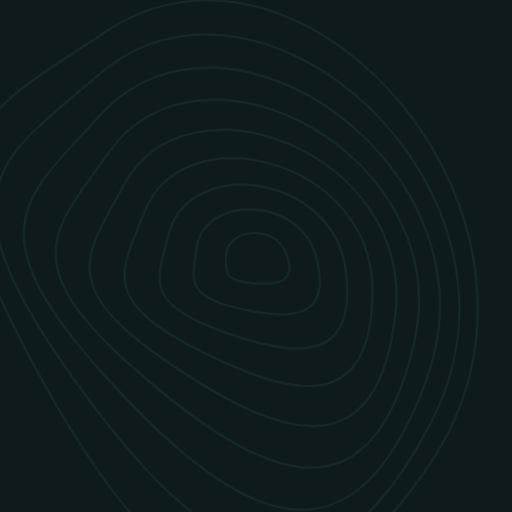
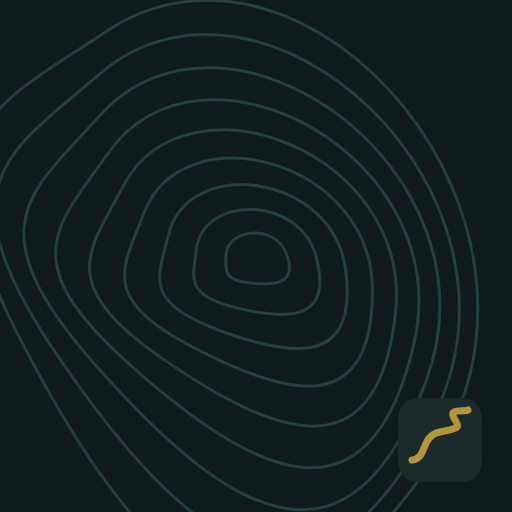
Android Auto: carátulas más visibles con el símbolo de la app, dato resumido y sin botón duplicado; web v56
Claude-Session: https://claude.ai/code/session_01FRQcJjMTDkdSzsSxRQTBPf

diff --git a/index.html b/index.html
@@ -12,7 +12,7 @@
 <link rel="preconnect" href="https://fonts.googleapis.com">
 <link rel="preconnect" href="https://fonts.gstatic.com" crossorigin>
 <link rel="stylesheet" href="https://fonts.googleapis.com/css2?family=Barlow+Condensed:wght@600;700&family=Barlow:wght@400;500;600&display=swap">
-<link rel="stylesheet" href="style.css?v=55">
+<link rel="stylesheet" href="style.css?v=56">
 </head>
 <body>
 <header class="top">
@@ -272,7 +272,7 @@
       </div>
     </div>
 
-    <p class="note">Versión 55. Los datos están guardados en la propia aplicación, así que funciona sin cobertura una vez instalada. Las fechas y cifras proceden de fuentes generales; si vas a citar alguna, compruébala antes.</p>
+    <p class="note">Versión 56. Los datos están guardados en la propia aplicación, así que funciona sin cobertura una vez instalada. Las fechas y cifras proceden de fuentes generales; si vas a citar alguna, compruébala antes.</p>
   </section>
 </main>
 
@@ -298,22 +298,22 @@
 <div id="toast" role="status" aria-live="polite" hidden></div>
 <div id="dimmer" hidden></div>
 
-<script src="data-asturias.js?v=55"></script>
-<script src="data-cantabria.js?v=55"></script>
-<script src="data-dias.js?v=55"></script>
-<script src="core.js?v=55"></script>
-<script src="engine.js?v=55"></script>
-<script src="ui.js?v=55"></script>
-<script src="radio.js?v=55"></script>
-<script src="explore.js?v=55"></script>
-<script src="home.js?v=55"></script>
-<script src="update.js?v=55"></script>
-<script src="edits.js?v=55"></script>
-<script src="summary.js?v=55"></script>
-<script src="bt.js?v=55"></script>
-<script src="auto.js?v=55"></script>
-<script src="routemap.js?v=55"></script>
-<script src="drive.js?v=55"></script>
-<script src="guide.js?v=55"></script>
+<script src="data-asturias.js?v=56"></script>
+<script src="data-cantabria.js?v=56"></script>
+<script src="data-dias.js?v=56"></script>
+<script src="core.js?v=56"></script>
+<script src="engine.js?v=56"></script>
+<script src="ui.js?v=56"></script>
+<script src="radio.js?v=56"></script>
+<script src="explore.js?v=56"></script>
+<script src="home.js?v=56"></script>
+<script src="update.js?v=56"></script>
+<script src="edits.js?v=56"></script>
+<script src="summary.js?v=56"></script>
+<script src="bt.js?v=56"></script>
+<script src="auto.js?v=56"></script>
+<script src="routemap.js?v=56"></script>
+<script src="drive.js?v=56"></script>
+<script src="guide.js?v=56"></script>
 </body>
 </html>

diff --git a/sw.js b/sw.js
@@ -1,8 +1,8 @@
 /* Service worker: guarda la app para que abra sin cobertura. */
-var CACHE = "ruta-historia-v55";
+var CACHE = "ruta-historia-v56";
 var ARCHIVOS = [
-  "./", "./index.html", "./style.css?v=55", "./engine.js?v=55", "./ui.js?v=55", "./drive.js?v=55", "./radio.js?v=55", "./explore.js?v=55", "./home.js?v=55", "./update.js?v=55", "./edits.js?v=55", "./summary.js?v=55", "./bt.js?v=55", "./fondos/costa.png", "./fondos/montanas.png", "./fondos/mapa.png", "./fondos/camino.png", "./fondos/arcos.png", "./auto.js?v=55", "./routemap.js?v=55", "./guide.js?v=55", "./vendor/leaflet/leaflet.js", "./vendor/leaflet/leaflet.css", "./core.js?v=55",
-  "./data-asturias.js?v=55", "./data-cantabria.js?v=55", "./data-dias.js?v=55",
+  "./", "./index.html", "./style.css?v=56", "./engine.js?v=56", "./ui.js?v=56", "./drive.js?v=56", "./radio.js?v=56", "./explore.js?v=56", "./home.js?v=56", "./update.js?v=56", "./edits.js?v=56", "./summary.js?v=56", "./bt.js?v=56", "./fondos/costa.png", "./fondos/montanas.png", "./fondos/mapa.png", "./fondos/camino.png", "./fondos/arcos.png", "./auto.js?v=56", "./routemap.js?v=56", "./guide.js?v=56", "./vendor/leaflet/leaflet.js", "./vendor/leaflet/leaflet.css", "./core.js?v=56",
+  "./data-asturias.js?v=56", "./data-cantabria.js?v=56", "./data-dias.js?v=56",
   "./manifest.webmanifest", "./icon-192.png", "./icon-512.png", "./icon-maskable-512.png"
 ];
 

diff --git a/auto.js b/auto.js
@@ -9,7 +9,12 @@
   /* La sesión de medios solo se activa mientras suena la radio de la app: así los datos hablados no se llevan el control de medios del coche. */
   var radioPlaying = false;
   function push() { P.update({ title: cur.title, text: cur.text, active: radioPlaying }).catch(function () { }); }
-  A.on("fact", function (e) { cur = { title: e.p.n, text: e.f.text }; push(); });
+  /* En la pantalla del coche el texto es corto: solo la primera frase, con un máximo de unos 90 caracteres. */
+  function short(t) {
+    var s = String(t || "").replace(/\s+/g, " ").trim(), m = /^(.+?[.!?])(\s|$)/.exec(s), f = m ? m[1] : s;
+    return f.length > 90 ? f.slice(0, 88).replace(/\s+\S*$/, "") + "…" : f;
+  }
+  A.on("fact", function (e) { cur = { title: e.p.n, text: short(e.f.text) }; push(); });
   A.on("trip", push);
   A.on("stopped", function () { cur = { title: "Ruta con Historia", text: "Viaje parado" }; push(); });
   /* Emisoras favoritas en la lista de la pantalla del coche. */

diff --git a/app/android/app/src/main/java/io/github/infanteeric03/rutaconhistoria/RutaAutoService.java b/app/android/app/src/main/java/io/github/infanteeric03/rutaconhistoria/RutaAutoService.java
@@ -80,7 +80,6 @@ public class RutaAutoService extends MediaBrowserServiceCompat {
         PlaybackStateCompat state = new PlaybackStateCompat.Builder()
                 .setActions(actions)
                 .setState(active ? PlaybackStateCompat.STATE_PLAYING : PlaybackStateCompat.STATE_PAUSED, 0, 1f)
-                .addCustomAction(new PlaybackStateCompat.CustomAction.Builder("more", "Otro dato", android.R.drawable.ic_media_next).build())
                 .addCustomAction(new PlaybackStateCompat.CustomAction.Builder("repeat", "Repetir", android.R.drawable.ic_menu_rotate).build())
                 .addCustomAction(new PlaybackStateCompat.CustomAction.Builder("mute", "Silencio", android.R.drawable.ic_lock_silent_mode).build())
                 .build();

diff --git a/README.md b/README.md
@@ -49,7 +49,7 @@ En la pestaña **Lugares**:
 - Abre un lugar y pulsa **Editar** para corregir sus datos, borrarlos, cambiarlos de orden (↑ ↓) o añadir otros. **Ocultar este lugar** hace que no se cuente en los viajes, y **Restaurar el original** deshace tus cambios.
 - **+ Nuevo lugar** crea uno tuyo: nombre, provincia, posición (tu ubicación actual o tocando en el mapa), tamaño de la zona y sus datos.
 - **Bluetooth del coche** (solo app Android): en Ajustes → Coche eliges tu coche entre los dispositivos emparejados; el viaje empieza al conectarse y se para 20 s después de desconectarse.
-- **Android Auto** (solo app Android): la app aparece en la pantalla del coche como app de medios (la sesión de medios solo se activa mientras suena la radio de la app, para no quitar el control a Spotify) con el lugar y el dato actuales y los botones Otro dato, Repetir y Silencio, un fondo muy tenue a elegir en Ajustes → Coche (costa, montañas, mapa, camino, arcos o ninguno) y la lista de tus emisoras favoritas para elegir la radio desde el coche. Una app instalada fuera de Google Play exige activar «Fuentes desconocidas» en los ajustes de desarrollador de Android Auto (tocar diez veces en la versión de Android Auto).
+- **Android Auto** (solo app Android): la app aparece en la pantalla del coche como app de medios (la sesión de medios solo se activa mientras suena la radio de la app, para no quitar el control a Spotify) con el lugar y el dato actuales y el botón de «siguiente» (que hace de Otro dato) y los de Repetir y Silencio, con el dato resumido a su primera frase, un fondo muy tenue a elegir en Ajustes → Coche (costa, montañas, mapa, camino, arcos o ninguno) y la lista de tus emisoras favoritas para elegir la radio desde el coche. Una app instalada fuera de Google Play exige activar «Fuentes desconocidas» en los ajustes de desarrollador de Android Auto (tocar diez veces en la versión de Android Auto).
 - **Resumen del viaje**: al parar un viaje aparece un resumen (km, tiempo, lugares y datos escuchados) que se puede compartir como texto.
 - **Este dato está mal**: botón bajo el dato en pantalla; lo anota y sale en «Exportar cambios» para revisarlo.
 - **Exportar cambios** guarda tus cambios en un archivo (en la app Android, se copian al portapapeles para pegarlos en una nota o un mensaje) e **Importar cambios** los recupera en este u otro móvil.
